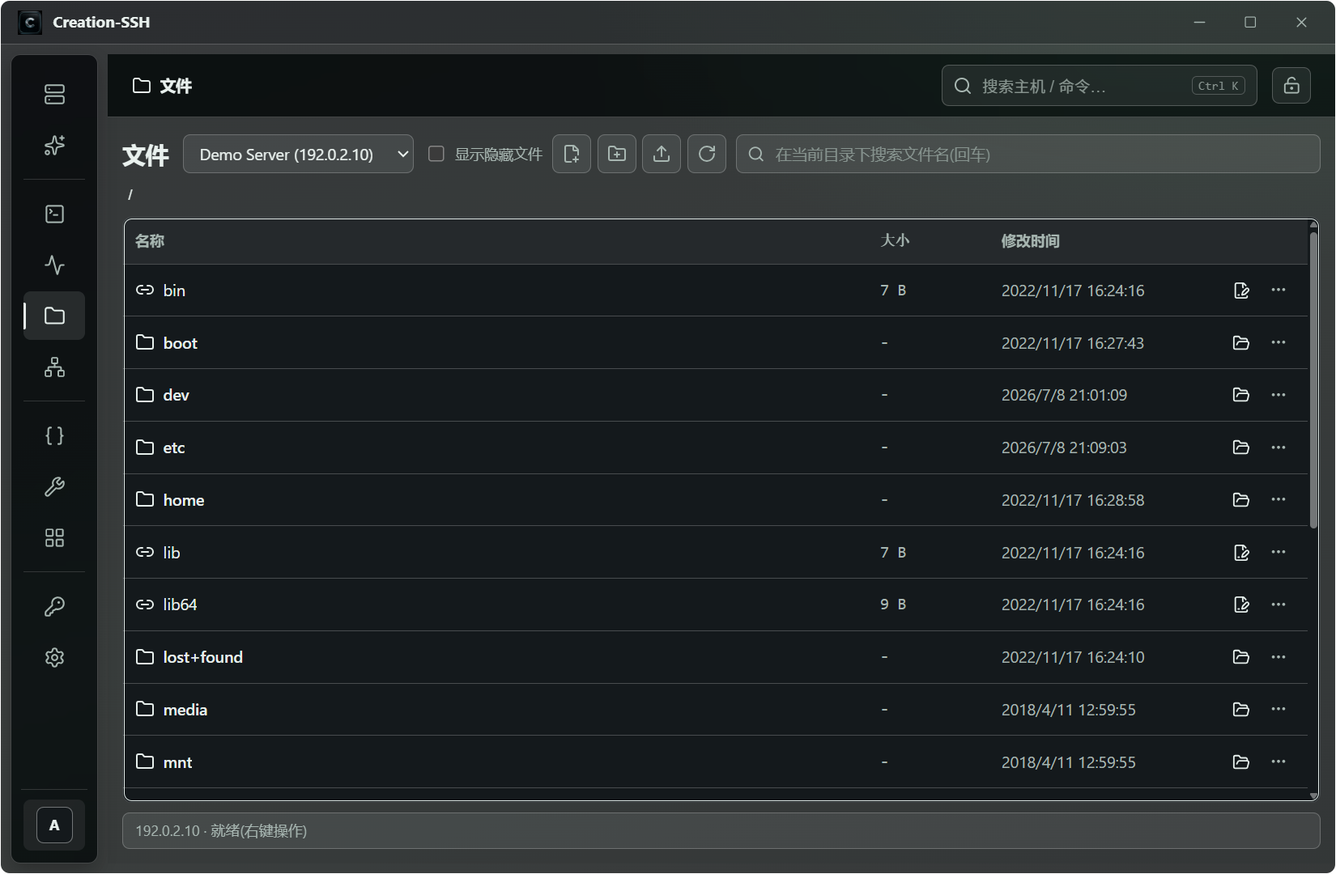
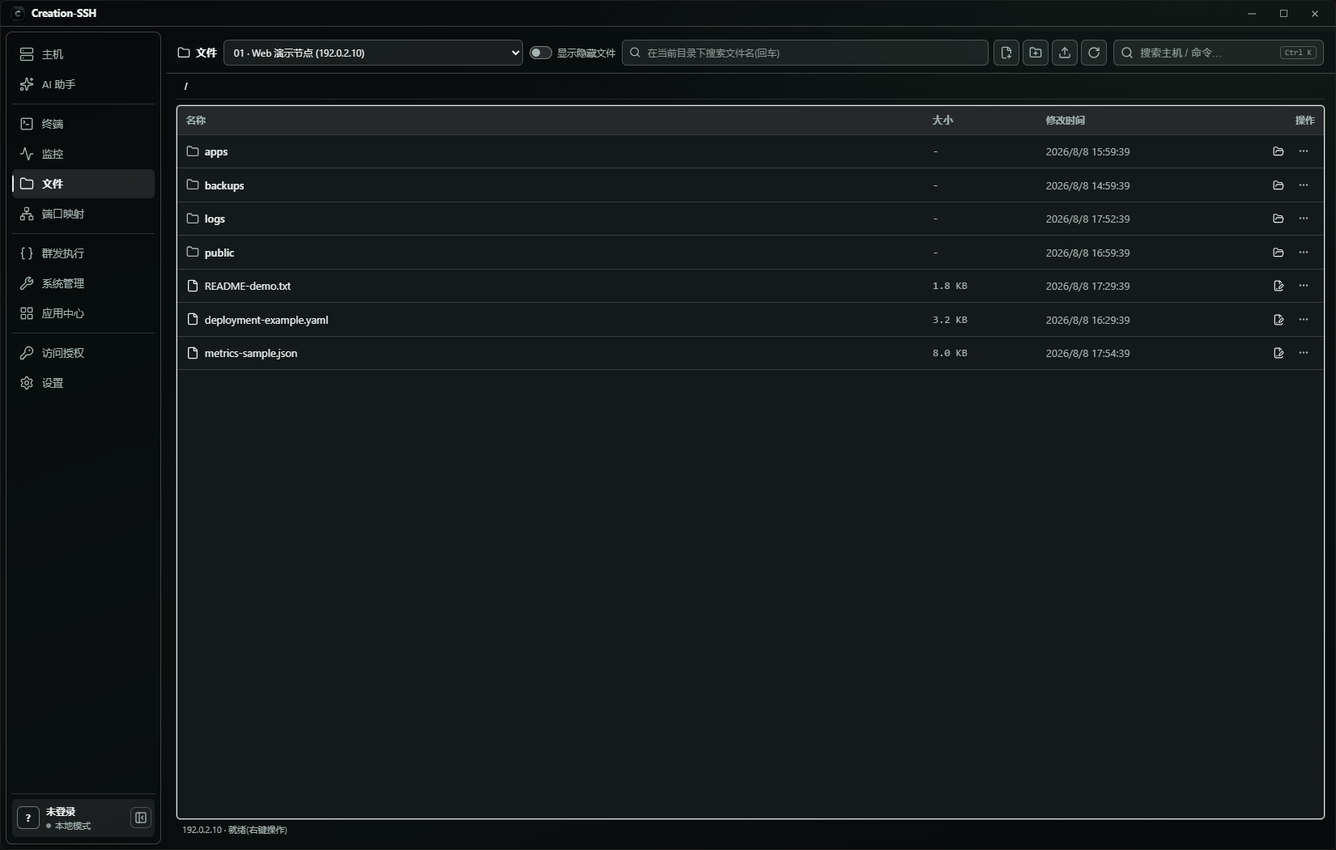
release: publish v0.7.5 product materials

diff --git a/README_EN.md b/README_EN.md
@@ -6,26 +6,26 @@
 
 ### Keep operating from your phone: persistent terminals, monitoring, files, and an AI assistant
 
-[![Android](https://img.shields.io/badge/Download-Android-3DDC84?logo=android&logoColor=white)](https://github.com/suiyuebaobao/C-SSH/releases/download/v0.7.4/C-SSH_0.7.4_android-arm64.apk)
-[![Windows](https://img.shields.io/badge/Download-Windows-0078D6?logo=windows&logoColor=white)](https://github.com/suiyuebaobao/C-SSH/releases/tag/v0.7.4)
-[![Stable](https://img.shields.io/badge/stable-v0.7.4-2ea44f)](https://github.com/suiyuebaobao/C-SSH/releases/tag/v0.7.4)
+[![Android](https://img.shields.io/badge/Download-Android-3DDC84?logo=android&logoColor=white)](https://github.com/suiyuebaobao/C-SSH/releases/download/v0.7.5/C-SSH_0.7.5_android-arm64.apk)
+[![Windows](https://img.shields.io/badge/Download-Windows-0078D6?logo=windows&logoColor=white)](https://github.com/suiyuebaobao/C-SSH/releases/tag/v0.7.5)
+[![Stable](https://img.shields.io/badge/stable-v0.7.5-2ea44f)](https://github.com/suiyuebaobao/C-SSH/releases/tag/v0.7.5)
 
 </div>
 
 Creation-SSH is an SSH operations client for Windows PCs and Android. Android is more than a read-only remote: it manages hosts, restores server-side tmux sessions, shows monitoring data, handles files, runs the AI assistant, and opens system-management workflows. The Windows client covers broader day-to-day operations.
 
-Creation-SSH provides explicit Agent and native SSH host modes. Agent mode retains persistent tmux sessions and server-side monitoring. SSH mode requires no installed agent and provides terminal access, port forwarding, SFTP file management, online monitoring, system management, app-center operations, and SSH AI tools. The current public stable release is **`v0.7.4`**.
+Creation-SSH provides explicit Agent and native SSH host modes. Agent mode retains persistent tmux sessions and server-side monitoring. SSH mode requires no installed agent and provides terminal access, port forwarding, SFTP file management, online monitoring, system management, app-center operations, and SSH AI tools. The current public stable release is **`v0.7.5`**.
 
 > Android upgrade notice: the first launch after every install or in-place update clears the previous installation-generation database and creates a fresh schema 9 database. Previous Android hosts, settings, credential references, and AI data are not retained.
 
-## v0.7.4 Highlights
+## v0.7.5 Highlights
 
-- Manual Cloud sync now covers hosts and credentials plus AI configuration and keys. Trusted clients encrypt Key/Token values, API endpoints, and model bindings with the data-protection password; Creation Cloud stores only opaque ciphertext.
-- AI conversations, attachments, tool results, memories, and vectors never enter Cloud. Users inspect changes and explicitly choose upload or download.
-- Removed the persistent conflict area and conflict resources. A resource changed on both sides is resolved directly in the normal change list, while revision, generation, local change-token, and digest checks remain enforced by the backend.
-- Fixed `sync_resync_required` being presented as a legacy data-clear flow. It now asks the user to re-verify data protection and check changes again without clearing local business data.
-- Host rows in Cloud changes show `IP:port`, and the admin console has a stable [`/admin`](https://c-ssh.com/admin) entry.
-- Production assets are exactly three Windows packages and one Android arm64 APK. Linux client development is discontinued and frozen; no Linux artifact or AAB is published.
+- For provably transient network, connection, read-timeout, and 408/429/500/502/503/504 failures, AI waits a fixed five seconds after each failure and retries at most five times. Only read-only, idempotent tool requests may be replayed automatically.
+- Writes, edits, commands, terminals, and other side-effecting requests are never replayed automatically once they may have been delivered. They return an explicit unknown outcome and retain the recovery gate instead of risking duplicate execution.
+- Before the Windows runtime starts, `<EXE directory>\data` becomes the sole data and state root. The master key, Cloud session, and automatic-unlock material remain in Windows Credential Manager rather than ordinary files.
+- Windows file drag-out and download recovery are more robust. Terminal right-click shows Copy only when xterm currently has a selection; with no selection, the event remains available to the remote TUI or mouse mode.
+- This release refreshes eight Windows and five Android screenshots. Every image uses RFC 5737, `example.com`, and explicitly labeled simulated data; none is evidence of a live host, Cloud, or AI-provider integration.
+- Production assets remain exactly three Windows packages and one Android arm64 APK. Linux client development stays frozen, with no Linux artifact or AAB.
 
 ## Current Capabilities
 
@@ -33,33 +33,36 @@ Creation-SSH provides explicit Agent and native SSH host modes. Agent mode retai
 - Creation Cloud provides accounts, device sessions, and manual sync. Host credentials and AI-provider Key/Token values, API endpoints, and model bindings are encrypted only by trusted clients; Cloud cannot read or use them.
 - AI supports multiple local provider accounts and model bindings. Conversations and five-layer memory remain local and are never synchronized.
 - Consolidated AI permissions into View, Edit, and Full Access while preserving conversations, schema 9 raw events, and five-layer memory when switching models.
+- Shared Rust orchestration handles transient AI retries and durably records each retry schedule before emitting it. A stop request can cancel the wait.
 - Broadcast execution can mix Agent and native SSH hosts with common per-host results, isolation, and confirmation behavior.
+- Windows installers, portable builds, and direct execution all use the adjacent `data` directory; file drag-out and download recovery remain inside the same isolated data root.
+- Windows terminal right-click takes over only to copy an existing selection. With no selection, it preserves the remote terminal's right-click behavior.
 - Windows and Android provide Contact Us cards for WeChat, QQ group, and WhatsApp, plus a compact mobile AI toolbar.
 - Fixed data-protection cold start and forgot-password reset, empty-cloud download previews, live AI configuration refresh, and host-monitor status projection.
 - Fixed the Android new-device password dialog being blocked by an invisible reminder overlay and fixed corrupted data-protection copy.
 
 ## Android First
 
-The same hosts and tmux sessions can continue across desktop and phone. Android `v0.7.4` ships one arm64 APK. No AAB is generated or uploaded, and x86_64 emulator test builds remain private.
+The same hosts and tmux sessions can continue across desktop and phone. Android `v0.7.5` ships one arm64 APK. No AAB is generated or uploaded, and x86_64 emulator test builds remain private.
 
 ## Download
 
 | Platform | Recommended download | Other production assets |
 | --- | --- | --- |
-| Android arm64 | [APK](https://github.com/suiyuebaobao/C-SSH/releases/download/v0.7.4/C-SSH_0.7.4_android-arm64.apk) | No AAB for this release |
-| Windows x64 | [EXE installer](https://github.com/suiyuebaobao/C-SSH/releases/download/v0.7.4/Creation-SSH_0.7.4_x64-setup.exe) | [MSI](https://github.com/suiyuebaobao/C-SSH/releases/download/v0.7.4/Creation-SSH_0.7.4_x64_en-US.msi) · [portable ZIP](https://github.com/suiyuebaobao/C-SSH/releases/download/v0.7.4/Creation-SSH_0.7.4_portable-Windows-x64.zip) |
+| Android arm64 | [APK](https://github.com/suiyuebaobao/C-SSH/releases/download/v0.7.5/C-SSH_0.7.5_android-arm64.apk) | No AAB for this release |
+| Windows x64 | [EXE installer](https://github.com/suiyuebaobao/C-SSH/releases/download/v0.7.5/Creation-SSH_0.7.5_x64-setup.exe) | [MSI](https://github.com/suiyuebaobao/C-SSH/releases/download/v0.7.5/Creation-SSH_0.7.5_x64_en-US.msi) · [portable ZIP](https://github.com/suiyuebaobao/C-SSH/releases/download/v0.7.5/Creation-SSH_0.7.5_portable-Windows-x64.zip) |
 
 Linux client development is discontinued and frozen. Historical source and historical releases remain available only as records.
 
-See the [v0.7.4 Release](https://github.com/suiyuebaobao/C-SSH/releases/tag/v0.7.4) for release notes and SHA256 values, or [CHANGELOG_EN.md](CHANGELOG_EN.md) for history.
+See the [v0.7.5 Release](https://github.com/suiyuebaobao/C-SSH/releases/tag/v0.7.5) for release notes and SHA256 values, or [CHANGELOG_EN.md](CHANGELOG_EN.md) for history.
 
 ## Delivered Platforms
 
-| Platform | Delivered in `v0.7.4` |
+| Platform | Delivered in `v0.7.5` |
 | --- | --- |
 | Android | Host management, agent install and update/repair, persistent/standard terminals, file upload/download, live monitoring, AI, system management, local login gate, and Me settings |
 | Windows | Complete desktop workflow, distributed as EXE, MSI, and portable ZIP |
-| iOS / macOS | **Not released** and not part of the `v0.7.4` delivery |
+| iOS / macOS | **Not released** and not part of the `v0.7.5` delivery |
 
 The Linux client is no longer developed, tested, built, or released. The server-side Linux agent is not a Linux client.
 
@@ -79,7 +82,7 @@ The Linux client is no longer developed, tested, built, or released. The server-
 
 ### Android Product Screenshots
 
-Each screenshot below is paired with one clear feature description and was reviewed for redaction before publication.
+These screenshots come from the `v0.7.5` Android test UI and use only RFC 5737, `example.com`, and explicitly labeled offline simulated data. They did not connect to a real host, Cloud, or AI provider, and they are not evidence of physical-arm64 acceptance or complete manual GUI coverage.
 
 #### Host Management
 
@@ -116,10 +119,10 @@ Monitor CPU, memory, load, network, disk usage, disk I/O, and top processes in r
 #### AI Assistant
 
 <div align="center">
-<img width="360" src="screenshots/mobile-ai.png" alt="Android AI assistant real response" />
+<img width="360" src="screenshots/mobile-ai.png" alt="Android AI assistant simulated demo" />
 </div>
 
-Select a target host, model, and permission profile before chatting with the AI, with controls for context, history, and settings. The screenshot shows a real read-only response, while tool execution remains governed by permissions and confirmation.
+Select a target host, model, and permission profile before chatting with the AI, with controls for context, history, and settings. The screenshot shows an offline timeline explicitly labeled as simulated data; real tool execution remains governed by permissions and confirmation.
 
 ### Windows Desktop
 
@@ -141,7 +144,7 @@ Windows exposes the complete desktop navigation below and follows the host hard-
 
 ### Desktop Product Screenshots
 
-Each Windows screenshot below is paired with one feature description and has been reviewed for redaction.
+These screenshots come from the `v0.7.5` Windows candidate UI and use only RFC 5737, `example.com`, and explicitly labeled offline simulated data. They did not connect to a real host, Cloud, or AI provider, and the eight captured pages are not a complete manual GUI acceptance run.
 
 #### Host Management
 
@@ -157,7 +160,7 @@ Manage SSH hosts through groups, favorites, and search while reviewing agent sta
 <img width="920" src="screenshots/terminal.png" alt="Desktop persistent and standard terminals" />
 </div>
 
-Select a host and switch between persistent tmux sessions and a standard SSH PTY. Standard terminals keep their live state across menu navigation, while persistent windows can be reattached after disconnects or device changes; a separate-window action supports parallel terminal work.
+Select a host and switch between persistent tmux sessions and a standard SSH PTY. Standard terminals keep their live state across menu navigation, while persistent windows can be reattached after disconnects or device changes. Right-click shows Copy only when a selection exists; otherwise, it remains available to the remote TUI or mouse mode.
 
 #### Multi-host Monitoring Overview
 
@@ -181,7 +184,7 @@ Inspect CPU, memory, disk, swap, load, network, and disk I/O for one host. Trend
 <img width="920" src="screenshots/files.png" alt="Desktop file manager" />
 </div>
 
-Browse and search remote directories, show hidden files, and create, upload, download, edit, or refresh items. The listing includes sizes, modification times, and per-item actions.
+Browse and search remote directories, show hidden files, and create, upload, download, edit, or refresh items. File drag-out and downloads support interruption recovery and integrity verification, while the listing includes sizes, modification times, and per-item actions.
 
 #### AI Assistant
 
@@ -189,7 +192,7 @@ Browse and search remote directories, show hidden files, and create, upload, dow
 <img width="920" src="screenshots/ai.png" alt="Desktop AI assistant" />
 </div>
 
-Select a host, model, and permission profile so the AI can read authorized metrics and system information and return a result. The page also provides history, context settings, and a separate AI window.
+Select a host, model, and permission profile so the AI can read authorized metrics and system information and return a result. Provably transient read-only failures wait a fixed five seconds and retry at most five times; requests that may have side effects are never replayed automatically.
 
 #### Broadcast Execution
 
@@ -209,7 +212,7 @@ Create an independent temporary SSH access key for a selected host, with the pri
 <img width="920" src="screenshots/settings.png" alt="Desktop settings" />
 </div>
 
-Configure system-language following, local login and vault protection, AI providers, appearance, and monitoring collection in one place. The About view exposes the current version and update check, while persistent settings stay local.
+Configure system-language following, local login and vault protection, AI providers, appearance, and monitoring collection in one place. Windows business state uses the adjacent `data` directory, while the master key and related platform material remain in Credential Manager.
 
 ## Security Boundaries
 

diff --git a/README.md b/README.md
@@ -6,26 +6,26 @@
 
 ### 手机上也能接着运维：持久化终端、常驻监控、文件管理与 AI 助手
 
-[![Android](https://img.shields.io/badge/下载-Android-3DDC84?logo=android&logoColor=white)](https://github.com/suiyuebaobao/C-SSH/releases/download/v0.7.4/C-SSH_0.7.4_android-arm64.apk)
-[![Windows](https://img.shields.io/badge/下载-Windows-0078D6?logo=windows&logoColor=white)](https://github.com/suiyuebaobao/C-SSH/releases/tag/v0.7.4)
-[![Stable](https://img.shields.io/badge/stable-v0.7.4-2ea44f)](https://github.com/suiyuebaobao/C-SSH/releases/tag/v0.7.4)
+[![Android](https://img.shields.io/badge/下载-Android-3DDC84?logo=android&logoColor=white)](https://github.com/suiyuebaobao/C-SSH/releases/download/v0.7.5/C-SSH_0.7.5_android-arm64.apk)
+[![Windows](https://img.shields.io/badge/下载-Windows-0078D6?logo=windows&logoColor=white)](https://github.com/suiyuebaobao/C-SSH/releases/tag/v0.7.5)
+[![Stable](https://img.shields.io/badge/stable-v0.7.5-2ea44f)](https://github.com/suiyuebaobao/C-SSH/releases/tag/v0.7.5)
 
 </div>
 
 Creation-SSH 是一套面向 Windows PC 与 Android 的 SSH 运维客户端。Android 不是只读遥控器：它可以直接管理主机、恢复服务端 tmux 持久化会话、查看监控、处理文件、调用 AI 助手和进入系统管理；Windows 端负责更完整的日常运维工作流。
 
-当前提供 Agent 与原生 SSH 两种主机模式：Agent 模式负责 tmux 持久终端与服务端持续监控；SSH 模式无需安装 agent，可使用终端、端口转发、SFTP 文件管理、在线监控、系统管理、应用中心和 SSH AI 工具。当前公开稳定版为 **`v0.7.4`**；旧版本继续保留为历史记录。
+当前提供 Agent 与原生 SSH 两种主机模式：Agent 模式负责 tmux 持久终端与服务端持续监控；SSH 模式无需安装 agent，可使用终端、端口转发、SFTP 文件管理、在线监控、系统管理、应用中心和 SSH AI 工具。当前公开稳定版为 **`v0.7.5`**；旧版本继续保留为历史记录。
 
 > Android 升级提示：每次安装或覆盖安装后的首次启动都会清除上一安装代本地数据库并建立新的 schema 9 数据库；旧主机、设置、凭据引用和 AI 数据不会保留。
 
-## v0.7.4 更新重点
+## v0.7.5 更新重点
 
-- 手动云同步扩展为“主机与凭据 + AI 配置与 Key”：Key/Token、API 地址和模型绑定均由可信客户端使用数据保护密码加密后上传，Creation Cloud 只保存不透明密文。
-- AI 对话、附件、工具结果、记忆和向量不进入 Cloud；同步前先检查变化，再由用户明确选择上传或下载。
-- 删除持久冲突区和冲突资源；同一条目双边变化直接在普通变化列表选择方向，后端仍以 revision、generation、本机 change token 和摘要执行整批并发校验。
-- 修复 `sync_resync_required` 被错误呈现为旧数据清除流程的问题；现在只要求重新验证数据保护状态并重新检查变化，不会清除本地业务数据。
-- 云端变化中的主机行显示 `IP:端口`，管理后台提供固定入口 [`/admin`](https://c-ssh.com/admin)。
-- 正式资产固定为 Windows NSIS、MSI、便携 ZIP 与 Android arm64 APK；Linux 客户端停止开发并冻结，不发布 Linux 制品，也不生成 AAB。
+- AI 对网络、连接、读取超时及 408/429/500/502/503/504 等可证明瞬时失败，在首次失败后按固定 5 秒间隔最多重试 5 次；只有只读且幂等的工具请求可自动重放。
+- 写入、编辑、命令、终端等副作用请求一旦可能送达就不会自动重放，而是明确返回未知终态并保留恢复门禁，避免重复执行。
+- Windows 在程序运行前将 `<EXE目录>\data` 设为唯一数据与状态根；主密钥、Cloud 会话和自动解锁材料仍留在 Windows Credential Manager，不降级为普通文件。
+- Windows 文件页补强拖出与下载恢复，终端右键仅在 xterm 当前确有选区时显示“复制”；无选区时继续交给远端 TUI 或鼠标模式。
+- 本版公开截图更新为 Windows 8 张、Android 5 张，全部使用 RFC 5737、`example.com` 和明确标注的模拟数据，不代表真实主机、Cloud 或 AI provider 联机验证。
+- 正式资产仍恰好为 Windows NSIS、MSI、便携 ZIP 与 Android arm64 APK；Linux 客户端保持冻结，不发布 Linux 制品，也不生成 AAB。
 
 ## 当前主要能力
 
@@ -33,33 +33,36 @@ Creation-SSH 是一套面向 Windows PC 与 Android 的 SSH 运维客户端。An
 - Creation Cloud 提供账号、登录设备与手动云同步；主机凭据以及 AI provider 的 Key/Token、API 地址和模型绑定仅由客户端加密，Cloud 不接触明文或使用这些秘密。
 - AI 支持本地多 provider 账户和模型绑定；对话与五层记忆只保存在设备本地，不参与云同步。
 - AI 权限收敛为查看、编辑、全权三档；会话、schema 9 原始记录与五层记忆在切换模型后继续保留。
+- AI 瞬时失败重试由共享 Rust 层统一编排，并先持久化每次重试排程；停止操作可以取消等待。
 - 群发执行支持 Agent 与原生 SSH 主机混选，并统一逐机结果、失败隔离和确认流程。
+- Windows 安装版、便携版和直接运行都使用程序同目录 `data`，文件拖出和下载恢复也受同一隔离数据根约束。
+- Windows 终端右键菜单只接管现有选区的复制，无选区时不改变远端终端的右键交互。
 - Windows 与 Android 提供“联系我们”，可查看微信、QQ 群和 WhatsApp 二维码；移动端 AI 工具栏使用紧凑图标布局。
 - 修复数据保护冷启动与忘记密码重置、空云端下载预览、模型配置即时刷新和主机监控状态投影问题。
 - 修复 Android 新设备验证弹窗被上层透明提醒遮罩截获触摸，以及数据保护说明出现问号乱码的问题。
 
 ## 先看 Android
 
-同一套主机和 tmux 会话可以在桌面与手机之间继续使用。Android `v0.7.4` 只发布 arm64 APK；本版不生成或上传 AAB，公开 Release 也不提供 x86_64 模拟器测试包。
+同一套主机和 tmux 会话可以在桌面与手机之间继续使用。Android `v0.7.5` 只发布 arm64 APK；本版不生成或上传 AAB，公开 Release 也不提供 x86_64 模拟器测试包。
 
 ## 下载
 
 | 平台 | 推荐下载 | 其他正式资产 |
 | --- | --- | --- |
-| Android arm64 | [APK](https://github.com/suiyuebaobao/C-SSH/releases/download/v0.7.4/C-SSH_0.7.4_android-arm64.apk) | 本版不提供 AAB |
-| Windows x64 | [安装版 EXE](https://github.com/suiyuebaobao/C-SSH/releases/download/v0.7.4/Creation-SSH_0.7.4_x64-setup.exe) | [MSI](https://github.com/suiyuebaobao/C-SSH/releases/download/v0.7.4/Creation-SSH_0.7.4_x64_en-US.msi) · [便携版 ZIP](https://github.com/suiyuebaobao/C-SSH/releases/download/v0.7.4/Creation-SSH_0.7.4_portable-Windows-x64.zip) |
+| Android arm64 | [APK](https://github.com/suiyuebaobao/C-SSH/releases/download/v0.7.5/C-SSH_0.7.5_android-arm64.apk) | 本版不提供 AAB |
+| Windows x64 | [安装版 EXE](https://github.com/suiyuebaobao/C-SSH/releases/download/v0.7.5/Creation-SSH_0.7.5_x64-setup.exe) | [MSI](https://github.com/suiyuebaobao/C-SSH/releases/download/v0.7.5/Creation-SSH_0.7.5_x64_en-US.msi) · [便携版 ZIP](https://github.com/suiyuebaobao/C-SSH/releases/download/v0.7.5/Creation-SSH_0.7.5_portable-Windows-x64.zip) |
 
 Linux 客户端已停止开发并冻结；历史源码和历史 Release 仅作为既有记录保留。
 
-版本说明和 SHA256 见 [v0.7.4 Release](https://github.com/suiyuebaobao/C-SSH/releases/tag/v0.7.4)，历史记录见 [CHANGELOG.md](CHANGELOG.md)。
+版本说明和 SHA256 见 [v0.7.5 Release](https://github.com/suiyuebaobao/C-SSH/releases/tag/v0.7.5)，历史记录见 [CHANGELOG.md](CHANGELOG.md)。
 
 ## 已交付平台
 
-| 平台 | `v0.7.4` 已交付范围 |
+| 平台 | `v0.7.5` 已交付范围 |
 | --- | --- |
 | Android | 主机管理、agent 安装与更新/修复、持久化/普通终端、文件上传下载、实时监控、AI、系统管理、本地登录门与“我的”设置 |
 | Windows | 完整桌面工作流；提供 EXE、MSI 与便携 ZIP |
-| iOS / macOS | **尚未发布**，不属于 `v0.7.4` 已交付范围 |
+| iOS / macOS | **尚未发布**，不属于 `v0.7.5` 已交付范围 |
 
 Linux 客户端不再开发、测试、构建或发布；服务器侧 Linux agent 不属于 Linux 客户端。
 
@@ -79,7 +82,7 @@ Linux 客户端不再开发、测试、构建或发布；服务器侧 Linux agen
 
 ### Android 产品截图
 
-以下每张截图都对应一段清晰的功能说明，并已在公开前完成脱敏核对。
+以下截图来自 `v0.7.5` Android 测试界面，只使用 RFC 5737、`example.com` 与明确标注的离线模拟数据；未连接真实主机、Cloud 或 AI provider，截图证据不等同于物理 arm64 设备验收或完整人工 GUI 覆盖。
 
 #### 主机管理
 
@@ -116,10 +119,10 @@ Linux 客户端不再开发、测试、构建或发布；服务器侧 Linux agen
 #### AI 助手
 
 <div align="center">
-<img width="360" src="screenshots/mobile-ai.png" alt="Android AI 助手真实响应" />
+<img width="360" src="screenshots/mobile-ai.png" alt="Android AI 助手模拟演示" />
 </div>
 
-选择目标主机、模型和权限档后与 AI 对话，并管理上下文、历史和设置。截图展示真实只读权限问答，工具执行仍受权限与确认控制。
+选择目标主机、模型和权限档后与 AI 对话，并管理上下文、历史和设置。截图展示明确标注为模拟数据的离线时间线；实际工具执行仍受权限与确认控制。
 
 ### Windows 桌面
 
@@ -141,7 +144,7 @@ Windows 提供下列完整桌面入口，并遵循主机硬删除与生命周期
 
 ### 桌面产品截图
 
-以下 Windows 截图都对应一段功能说明，并已完成脱敏核对。
+以下截图来自 `v0.7.5` Windows 候选程序界面，只使用 RFC 5737、`example.com` 与明确标注的离线模拟数据；未连接真实主机、Cloud 或 AI provider，8 张页面截图不代表完整人工 GUI 验收。
 
 #### 主机管理
 
@@ -157,7 +160,7 @@ Windows 提供下列完整桌面入口，并遵循主机硬删除与生命周期
 <img width="920" src="screenshots/terminal.png" alt="桌面持久化与普通终端" />
 </div>
 
-选择主机后，可在 tmux 持久化会话与普通 SSH PTY 之间切换。普通终端在菜单往返期间保留现场，持久化窗口则可在断线或更换设备后重新附加；独立窗口入口可用于并行操作多个终端。
+选择主机后，可在 tmux 持久化会话与普通 SSH PTY 之间切换。普通终端在菜单往返期间保留现场，持久化窗口则可在断线或更换设备后重新附加；右键只在当前确有选区时显示“复制”，无选区时继续交给远端 TUI 或鼠标模式。
 
 #### 跨主机监控概览
 
@@ -181,7 +184,7 @@ Windows 提供下列完整桌面入口，并遵循主机硬删除与生命周期
 <img width="920" src="screenshots/files.png" alt="桌面文件管理" />
 </div>
 
-浏览和搜索远端目录，显示隐藏文件，并执行新建、上传、下载、编辑和刷新。文件列表提供大小、修改时间以及逐项操作入口。
+浏览和搜索远端目录，显示隐藏文件，并执行新建、上传、下载、编辑和刷新。文件拖出与下载支持中断恢复和完整性核对，文件列表提供大小、修改时间以及逐项操作入口。
 
 #### AI 助手
 
@@ -189,7 +192,7 @@ Windows 提供下列完整桌面入口，并遵循主机硬删除与生命周期
 <img width="920" src="screenshots/ai.png" alt="桌面 AI 助手" />
 </div>
 
-选择主机、模型和权限档，让 AI 在明确授权范围内读取指标与系统信息并给出结果。页面同时提供历史记录、上下文配置和独立 AI 窗口入口。
+选择主机、模型和权限档，让 AI 在明确授权范围内读取指标与系统信息并给出结果。可证明的瞬时只读失败按固定 5 秒间隔最多重试 5 次；可能产生副作用的请求不会自动重放。
 
 #### 群发执行
 
@@ -209,7 +212,7 @@ Windows 提供下列完整桌面入口，并遵循主机硬删除与生命周期
 <img width="920" src="screenshots/settings.png" alt="桌面设置" />
 </div>
 
-集中配置跟随系统语言、本地登录与保险库密码、AI provider、外观和监控采集。关于页面提供当前版本与更新检查，所有持久设置保存在本地。
+集中配置跟随系统语言、本地登录与保险库密码、AI provider、外观和监控采集。关于页面提供当前版本与更新检查；Windows 业务状态进入程序同目录 `data`，主密钥等平台材料仍留在 Credential Manager。
 
 ## 安全边界
 

diff --git a/CHANGELOG_EN.md b/CHANGELOG_EN.md
@@ -4,6 +4,37 @@
 
 Download complete installers from [GitHub Releases](../../releases). Each release includes binaries, release notes, and verification details.
 
+## v0.7.5 - Windows Data Isolation, File Recovery, And Transient AI Retries
+
+> Protocol remains 13 and SQLite/AI schema remains 9. Production assets are exactly three Windows packages and one Android arm64 APK. Linux client development stays frozen, with no Linux artifact or AAB produced or uploaded.
+
+### Downloads
+- Windows installer: `Creation-SSH_0.7.5_x64-setup.exe`
+- Windows MSI: `Creation-SSH_0.7.5_x64_en-US.msi`
+- Windows portable: `Creation-SSH_0.7.5_portable-Windows-x64.zip`
+- Android arm64 APK: `C-SSH_0.7.5_android-arm64.apk`
+
+### Added And Changed
+- Before Tauri/runtime initialization, Windows makes the real `<EXE directory>\data` the sole data and state root. SQLite, known_hosts, local AI/Cloud files, logs, WebView2 data, and transfer temporaries no longer scatter across AppData, the working directory, or the system temporary directory.
+- The Windows master key, Cloud session, and automatic-unlock material remain in Credential Manager instead of being downgraded to ordinary files for the adjacent-data layout.
+- File drag-out sessions and download recovery are more robust. Recovery after interruption remains guarded by destination identity, chunk integrity, and atomic adoption.
+- For Issue #41, terminal right-click shows Copy and restores focus only when xterm currently has a selection. With no selection, the client does not intercept the event, leaving it to the remote TUI or mouse mode.
+
+### AI Reliability
+- Provably transient network, connection, read-timeout, and 408/429/500/502/503/504 failures wait a fixed five seconds after each failure and retry at most five times. Only read-only, idempotent Agent/SSH reads may be replayed automatically.
+- Writes, edits, commands, terminals, and other requests are never replayed automatically once they may have been delivered. They return an unknown outcome and retain the recovery gate instead of risking duplicate side effects.
+- Each retry schedule is persisted before it is shown. Stop can cancel the wait, and the final error reports the failure category and whether retries were exhausted.
+
+### Screenshot Evidence Boundary
+- Refreshed eight Windows and five Android public product screenshots. Every image uses RFC 5737, `example.com`, and explicitly labeled simulated data; none connected to a real host, Cloud, or AI provider.
+- All 13 screenshots passed per-image visual and redaction review. Android screenshots came from an x86_64 emulator test UI; these images are not evidence of physical-arm64 acceptance or complete manual GUI coverage.
+
+### SHA256
[4 lines of base64/hex data omitted]
+
 ## v0.7.4 - Encrypted Manual Sync for Hosts and AI Configuration
 
 > Protocol remains 13 and SQLite/AI schema remains 9. Production assets are exactly three Windows packages and one Android arm64 APK. Linux client development is discontinued and frozen; no Linux artifact or AAB is produced or uploaded. The Windows EXE/MSI currently have no Authenticode signature.

diff --git a/CHANGELOG.md b/CHANGELOG.md
@@ -4,6 +4,37 @@
 
 完整安装包请前往 [GitHub Releases](../../releases)。每个 Release 都包含对应版本的安装包、更新说明和验证信息。
 
+## v0.7.5 - Windows 数据隔离、文件恢复与 AI 瞬时重试
+
+> 协议保持 13，SQLite/AI schema 保持 9。正式资产恰好为 Windows 三项和 Android arm64 APK；Linux 客户端保持冻结，不发布 Linux 制品，也不生成或上传 AAB。
+
+### 下载
+- Windows 安装版：`Creation-SSH_0.7.5_x64-setup.exe`
+- Windows MSI：`Creation-SSH_0.7.5_x64_en-US.msi`
+- Windows 便携版：`Creation-SSH_0.7.5_portable-Windows-x64.zip`
+- Android arm64 APK：`C-SSH_0.7.5_android-arm64.apk`
+
+### 新增与调整
+- Windows 在 Tauri/Runtime 初始化前将真实 `<EXE目录>\data` 设为唯一数据与状态根；SQLite、known_hosts、AI/Cloud 本地文件、日志、WebView2 数据和传输临时文件不再分散到 AppData、工作目录或系统临时目录。
+- Windows 主密钥、Cloud 会话和自动解锁材料继续保存在 Credential Manager，不因“随 EXE”数据布局降级为普通文件。
+- 文件页补强拖出会话与下载恢复；中断后的恢复继续受目标身份、分块完整性和原子采用门禁约束。
+- Issue #41 的终端右键只在 xterm 当前确有选区时显示“复制”并恢复焦点；无选区时不接管，继续交给远端 TUI 或鼠标模式。
+
+### AI 可靠性
+- 网络、连接、读取超时及 408/429/500/502/503/504 等可证明瞬时失败，在首次失败后按固定 5 秒间隔最多重试 5 次；只有只读且幂等的 Agent/SSH 读取可自动重放。
+- 写入、编辑、命令、终端等请求一旦可能送达就不会自动重放，而是返回未知终态并保留恢复门禁，避免重复副作用。
+- 每次重试排程先持久化再显示；停止可以取消等待，最终错误会说明失败类别和重试是否用尽。
+
+### 截图证据边界
+- 更新 Windows 8 张与 Android 5 张公开产品截图；全部使用 RFC 5737、`example.com` 和明确标注的模拟数据，未连接真实主机、Cloud 或 AI provider。
+- 13 张截图均完成逐图目检与脱敏复核。Android 截图来自 x86_64 模拟器测试界面；这些截图不代表物理 arm64 设备验收，也不等同于完整人工 GUI 覆盖。
+
+### SHA256
[4 lines of base64/hex data omitted]
+
 ## v0.7.4 - 主机与 AI 配置加密手动云同步
 
 > 协议保持 13，SQLite/AI schema 保持 9。正式资产恰好为 Windows 三项和 Android arm64 APK。Linux 客户端停止开发并冻结，不发布 Linux 制品，也不生成或上传 AAB。Windows EXE/MSI 当前未使用 Authenticode 签名。
